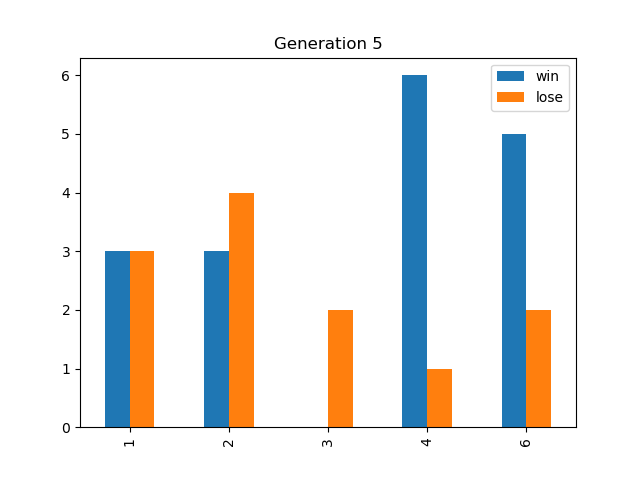
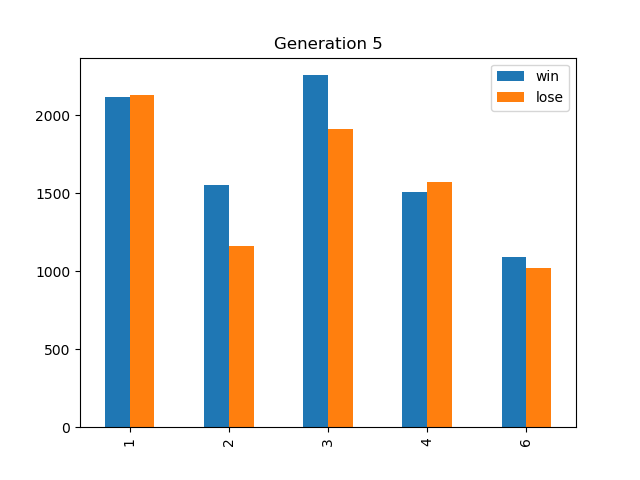
update

diff --git a/pokemon_preprocessing.py b/pokemon_preprocessing.py
@@ -46,7 +46,7 @@ def generation_importance(pokemon, combats):
     generation_new = [ [[0,0] for x in generation_list] for y in generation_list]
     generate_length = len(generation_list)
 
-    for index, row in combats.head(100).iterrows():
+    for index, row in combats.iterrows():
         first = generation[ generation['#']==row['First_pokemon']]['Generation'].values[0] - 1
         second = generation[ generation['#']==row['Second_pokemon']]['Generation'].values[0] - 1
         label = row['Winner']
@@ -70,9 +70,9 @@ def generation_importance(pokemon, combats):
 if __name__=='__main__':
     pokemon_data = pd.read_csv('./pokemon.csv')
     combat_data = pd.read_csv('./new_combats.csv')
-    legendary_distribution(pokemon_data['Legendary'])
-    legendary_compare(pokemon_data)
-    legendary_importance(pokemon_data, combat_data)
+    #legendary_distribution(pokemon_data['Legendary'])
+    #legendary_compare(pokemon_data)
+    #legendary_importance(pokemon_data, combat_data)
     generation_importance(pokemon_data, combat_data)
     
 
